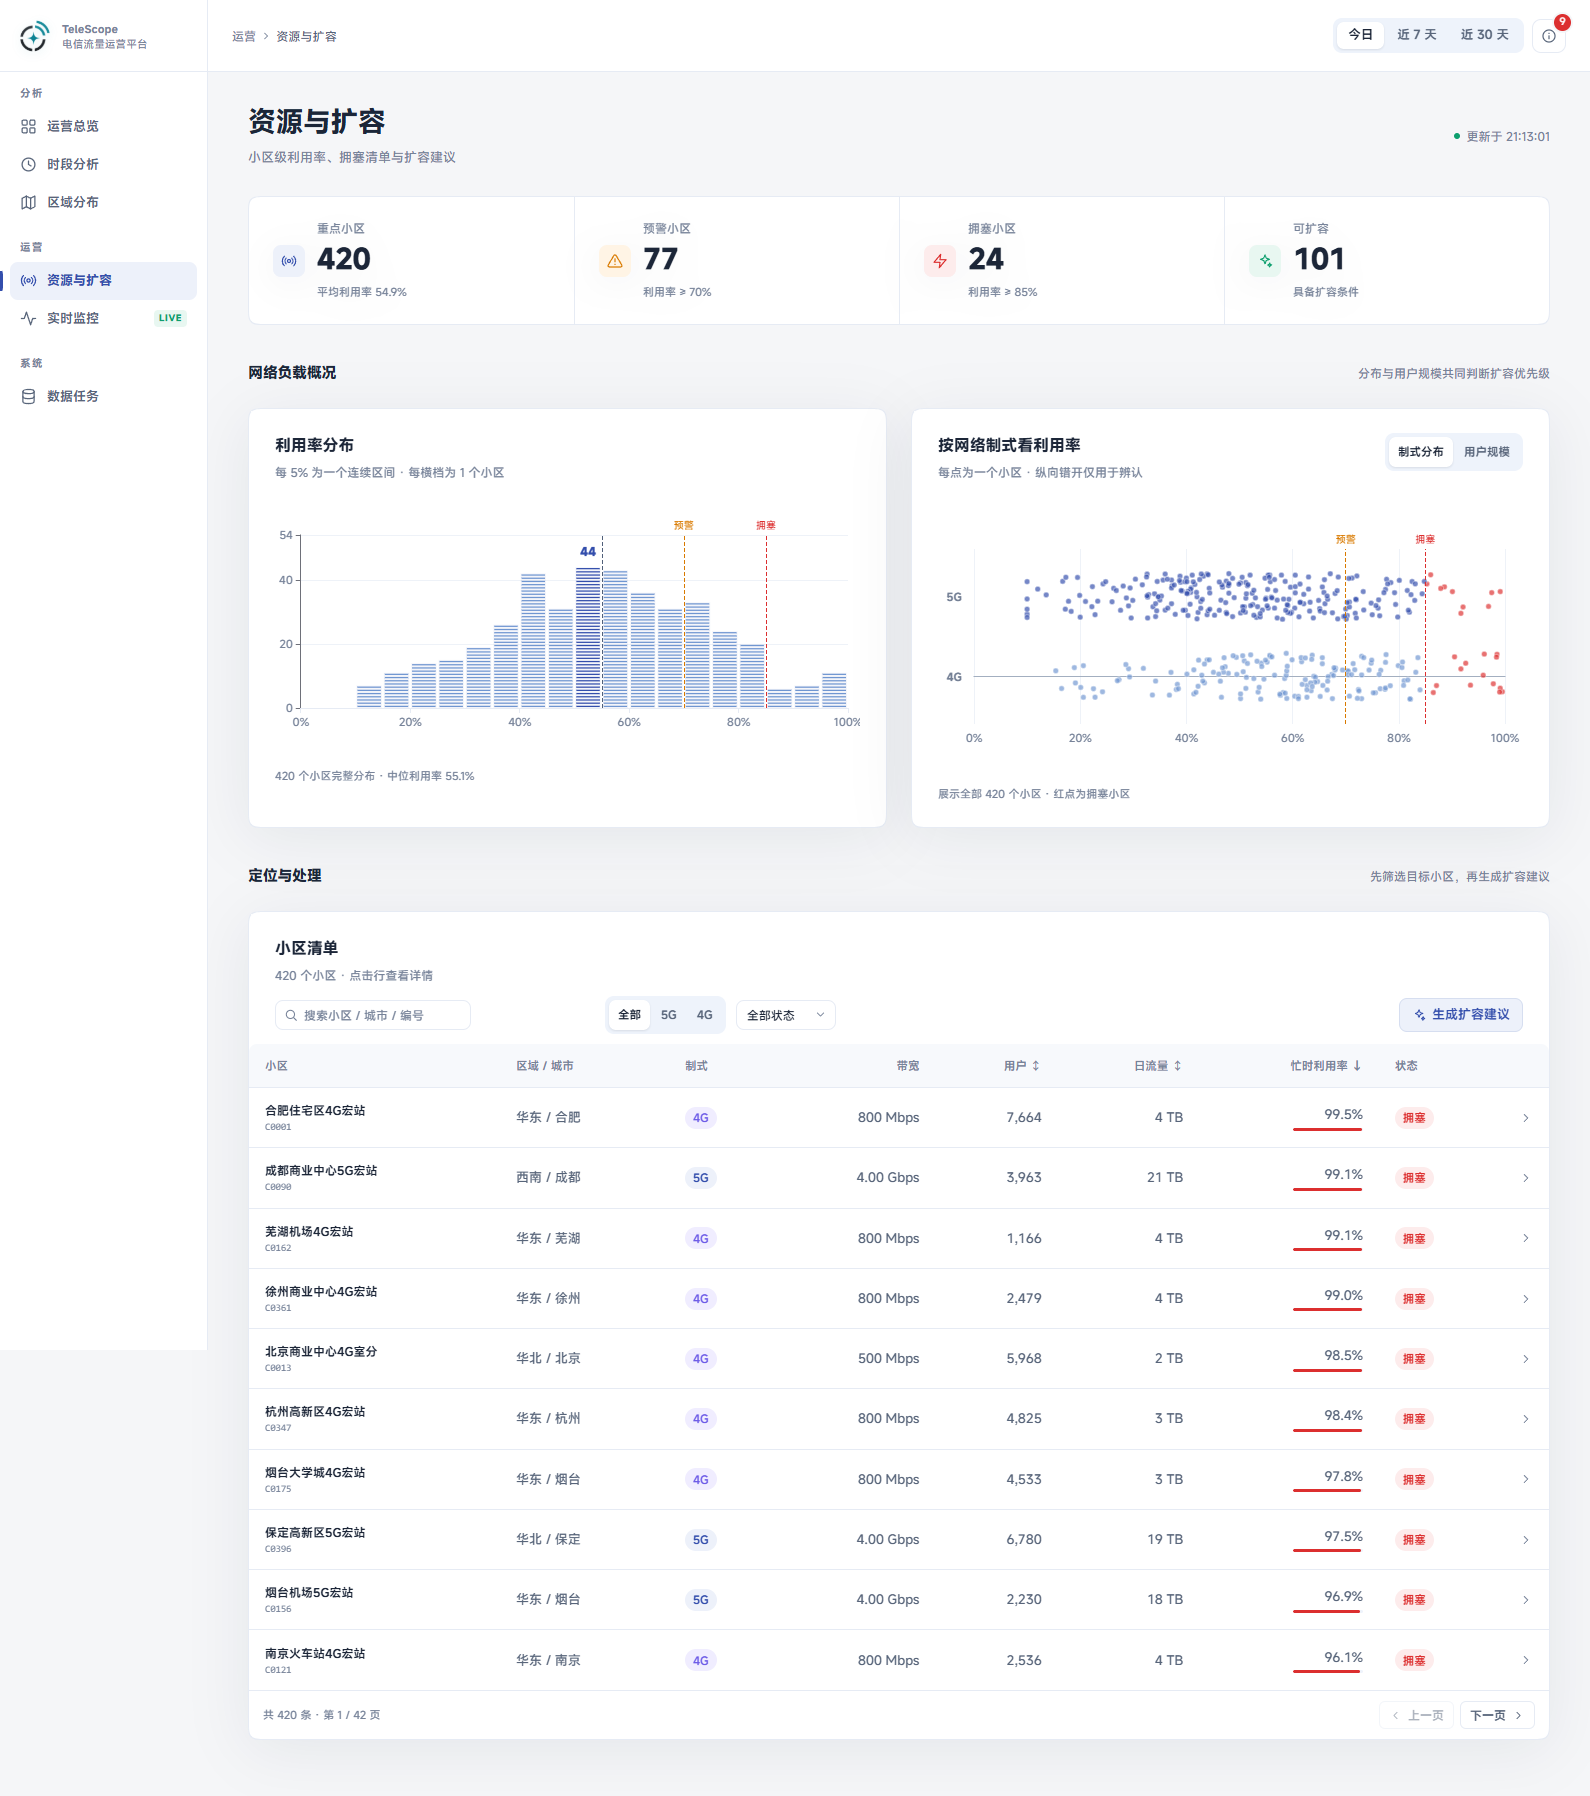
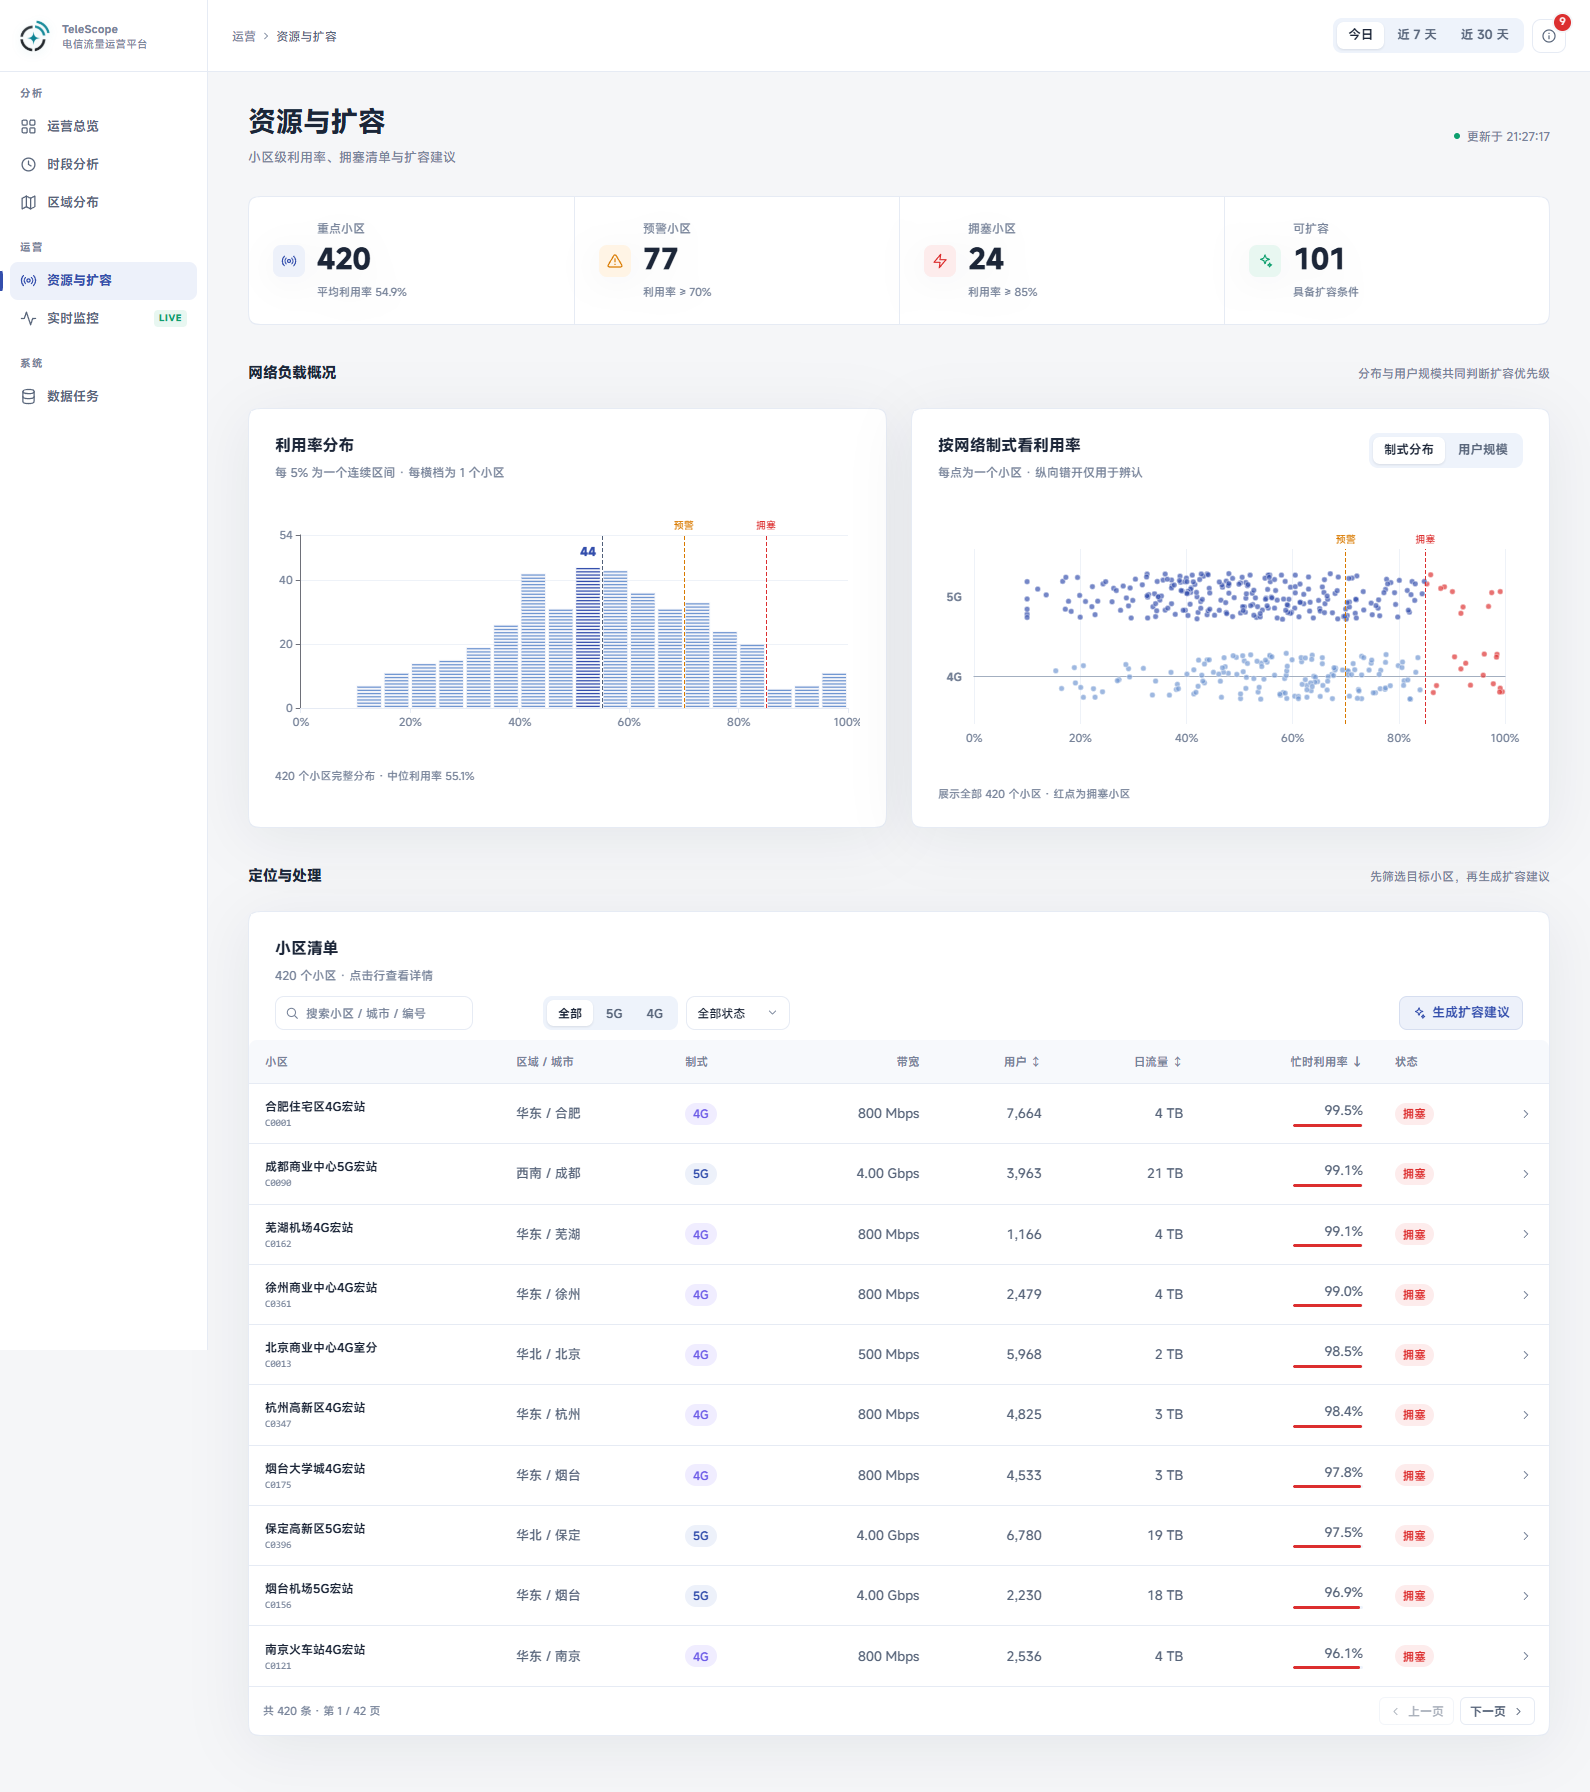
feat: 统一资源页筛选栏的三个控件
搜索、制式分段、状态下拉收进同一个 filter-cluster，统一为 34px 高、9px 圆角和 8px 间距；搜索框固定 260px，不再被 flex 拉长，生成扩容建议仍靠右。窄屏下整组换行。

diff --git a/web/src/views/Cells.vue b/web/src/views/Cells.vue
@@ -271,16 +271,18 @@ onUnmounted(() => {
     <Panel class="cells-table" title="小区清单" :sub="`${filtered.length} 个小区 · 点击行查看详情`" :loading="loading && !data" flush>
       <template #actions>
         <div class="filters">
-          <div class="search">
-            <Icon name="search" :size="14" />
-            <input v-model="q" v-type-reveal class="input" placeholder="搜索小区 / 城市 / 编号" aria-label="搜索小区" />
+          <div class="filter-cluster">
+            <div class="search">
+              <Icon name="search" :size="14" />
+              <input v-model="q" v-type-reveal class="input" placeholder="搜索小区 / 城市 / 编号" aria-label="搜索小区" />
+            </div>
+            <div v-seg-mask class="seg seg--sm">
+              <button class="seg__item" :class="{ 'is-active': gen === 'all' }" @click="gen = 'all'">全部</button>
+              <button class="seg__item" :class="{ 'is-active': gen === '5G' }" @click="gen = '5G'">5G</button>
+              <button class="seg__item" :class="{ 'is-active': gen === '4G' }" @click="gen = '4G'">4G</button>
+            </div>
+            <Select v-model="status" class="select" size="sm" :options="statusOptions" aria-label="按状态筛选" />
           </div>
-          <div v-seg-mask class="seg seg--sm">
-            <button class="seg__item" :class="{ 'is-active': gen === 'all' }" @click="gen = 'all'">全部</button>
-            <button class="seg__item" :class="{ 'is-active': gen === '5G' }" @click="gen = '5G'">5G</button>
-            <button class="seg__item" :class="{ 'is-active': gen === '4G' }" @click="gen = '4G'">4G</button>
-          </div>
-          <Select v-model="status" class="select" size="sm" :options="statusOptions" aria-label="按状态筛选" />
           <button class="btn btn--soft" @click="expandOpen = true">
             <Icon name="sparkles" :size="14" />
             生成扩容建议
@@ -409,13 +411,17 @@ onUnmounted(() => {
 .legend { display: inline-flex; align-items: center; gap: 4px; font-size: 10.5px; color: var(--text-3); margin-left: 6px; }
 .legend i { width: 7px; height: 7px; border-radius: 2px; display: block; }
 
-.filters { display: flex; align-items: center; gap: 8px; }
-.search { position: relative; }
+.filters { display: flex; align-items: center; gap: 10px; width: 100%; flex-wrap: wrap; }
+.filter-cluster { display: flex; align-items: center; gap: 8px; min-width: 0; }
+.search { position: relative; flex: 0 0 260px; }
 /* v-type-reveal 会把 input 包进 position: relative 的容器，不提升层级时 input 背景会盖住图标 */
 .search svg { position: absolute; left: 9px; top: 50%; transform: translateY(-50%); z-index: 1; pointer-events: none; color: var(--text-3); }
-.search .input { width: 200px; height: 30px; padding-left: 28px; font-size: 12px; }
-.select { width: 100px; }
-.seg--sm .seg__item { height: 30px; padding: 0 9px; font-size: 11.5px; }
+.search .input { width: 100%; height: 34px; padding-left: 30px; font-size: 12px; border-radius: 9px; }
+.search svg { left: 10px; }
+.select { width: 104px; }
+.filters :deep(.sel--sm .sel__trigger) { height: 34px; padding: 0 10px; border-radius: 9px; }
+.filters .seg--sm { height: 34px; }
+.filters .seg--sm .seg__item { height: 26px; padding: 0 11px; font-size: 12px; }
 
 .cell-name { font-size: 12px; font-weight: 500; color: var(--text); }
 .cell-id { font-size: 9.5px; color: var(--text-3); margin-top: 1px; }
@@ -504,11 +510,12 @@ onUnmounted(() => {
 }
 .cells-table :deep(.panel-head) { flex-direction: column; align-items: stretch; }
 .cells-table :deep(.panel-actions) { width: 100%; }
-.filters { width: 100%; flex-wrap: wrap; gap: 10px; }
 .filters > .btn { margin-left: auto; }
-.search { flex: 1; min-width: 180px; max-width: 320px; }
-.search .input { width: 100%; }
-@media (max-width: 680px) { .filters > .btn { margin-left: 0; } .search { max-width: none; flex-basis: 100%; } }
+@media (max-width: 680px) {
+  .filters > .btn { margin-left: 0; }
+  .filter-cluster { width: 100%; flex-wrap: wrap; }
+  .search { flex: 1 1 100%; }
+}
 
 .scatter-panel { position: relative; isolation: isolate; overflow: hidden; }
 .scatter-panel :deep(.panel-head) { flex-wrap: wrap; align-items: flex-start; }
